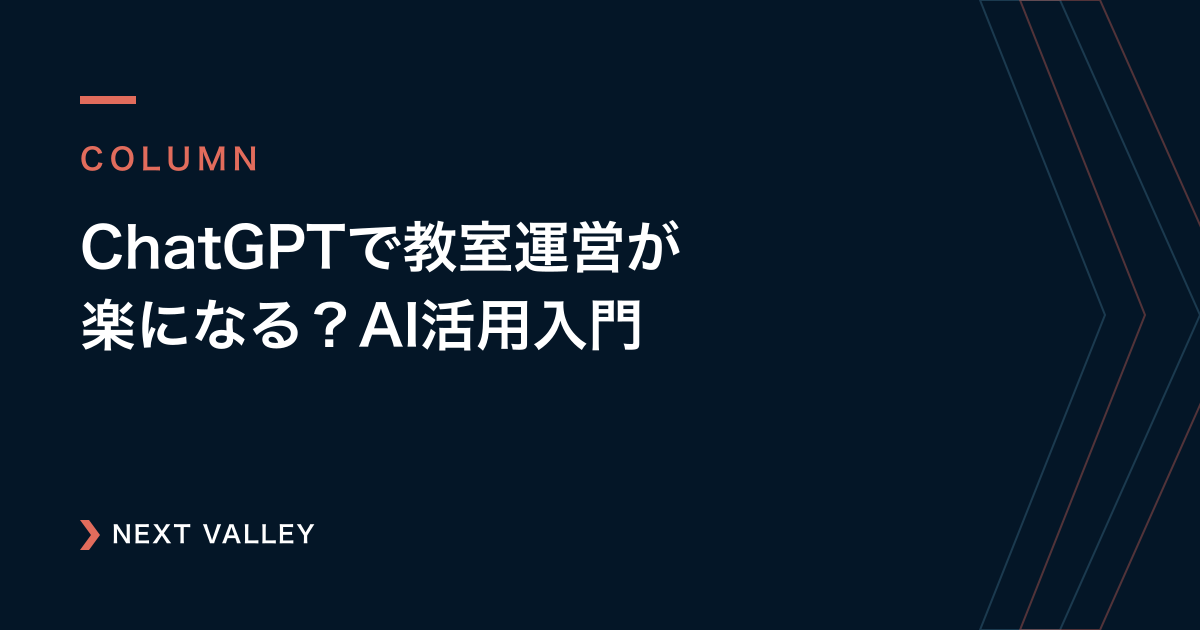
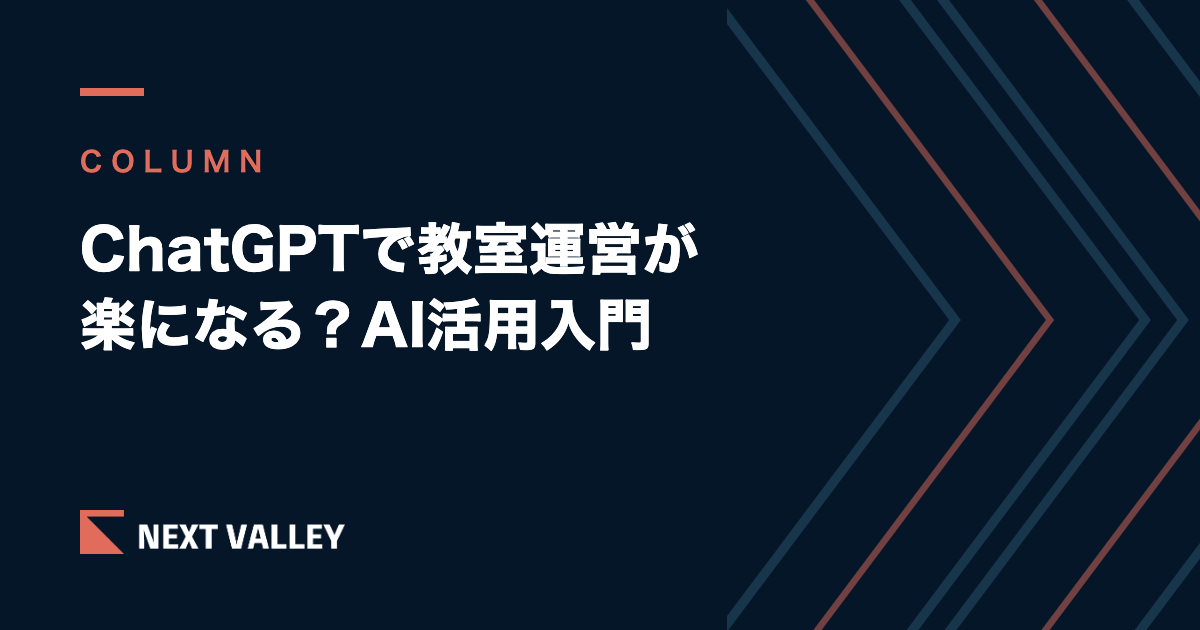
feat: 実績2件追加、コラムのサムネを本物のロゴで統一、記事の可読性修正
- 制作実績: BowlingNavi（上段）・タイ北部チェンマイ情報ステーション（下段）を追加。スマホ＋PCの合成画像を既存と同じ型で作成
- コラムのサムネイル全15枚を実ロゴ（logo-new.png）で再生成
- 記事: 太字が崩れる「」**」直後に文字」パターンを書き換え、「——」を全記事・代表メッセージから除去
- 記事本文の行間を2.0に拡大、記事内テーブルの1列目を折り返さない

diff --git a/src/components/Works.tsx b/src/components/Works.tsx
@@ -19,6 +19,8 @@ import work7 from "@/images/works/works7.jpg";
 import work8 from "@/images/works/works8.jpg";
 import work9 from "@/images/works/works9.jpg";
 import work11 from "@/images/works/works11.jpg";
+import work12 from "@/images/works/works12.jpg";
+import work13 from "@/images/works/works13.jpg";
 
 const featuredWorks = [
     {
@@ -38,11 +40,11 @@ const featuredWorks = [
         ),
     },
     {
-        name: "株式会社ワナビィ様",
-        label: "企業・サービス",
-        image: work7,
+        name: "BowlingNavi -ボウナビ- 様",
+        label: "メディア・情報サイト",
+        image: work12,
         review: null,
-        caption: "コーポレートサイトの制作事例。スクールに限らず、企業サイトも手がけています。",
+        caption: "関西のボウリング大会情報サイト。大会検索・コラム・診断コンテンツを備えたメディアサイトの制作事例です。",
     },
 ];
 
@@ -54,6 +56,8 @@ const otherWorks = [
     { name: "DANCE STUDIO PLUS様", image: work9 },
     { name: "K-coaching様", image: work11 },
     { name: "株式会社ビビッドディレクション様", image: work6 },
+    { name: "株式会社ワナビィ様", image: work7 },
+    { name: "タイ北部チェンマイ情報ステーション様", image: work13 },
 ];
 
 export function Works() {
@@ -64,7 +68,7 @@ export function Works() {
                 <FadeIn>
                     <SerifHeading en="Works" jp="制作実績" />
                     <p className="lead -mt-6 mb-10 text-[15px] leading-[2] tracking-[0.03em] text-ink-sub md:mb-14">
-                        スクールから企業サイトまで、50社以上の制作・支援実績があります。
+                        スクールから企業サイト・情報メディアまで、50社以上の制作・支援実績があります。
                     </p>
                 </FadeIn>
 

diff --git a/src/app/blog/[slug]/page.tsx b/src/app/blog/[slug]/page.tsx
@@ -115,7 +115,7 @@ export default async function BlogPostPage({ params }: { params: Promise<{ slug:
                         <TableOfContents toc={toc} />
                     </div>
 
-                    <div className="prose prose-lg max-w-none text-slate-700 prose-headings:text-[#002335] prose-a:text-coral-deep prose-a:font-bold prose-strong:text-[#002335] prose-strong:bg-[linear-gradient(transparent_60%,#fbd5d0_60%)] mb-16">
+                    <div className="prose prose-lg max-w-none text-slate-700 prose-p:leading-[2] prose-li:leading-[1.9] prose-p:my-6 prose-li:my-2 prose-headings:text-[#002335] prose-a:text-coral-deep prose-a:font-bold prose-strong:text-[#002335] prose-strong:bg-[linear-gradient(transparent_60%,#fbd5d0_60%)] mb-16">
                         <DocumentRenderer
                             document={content}
                             renderers={{
